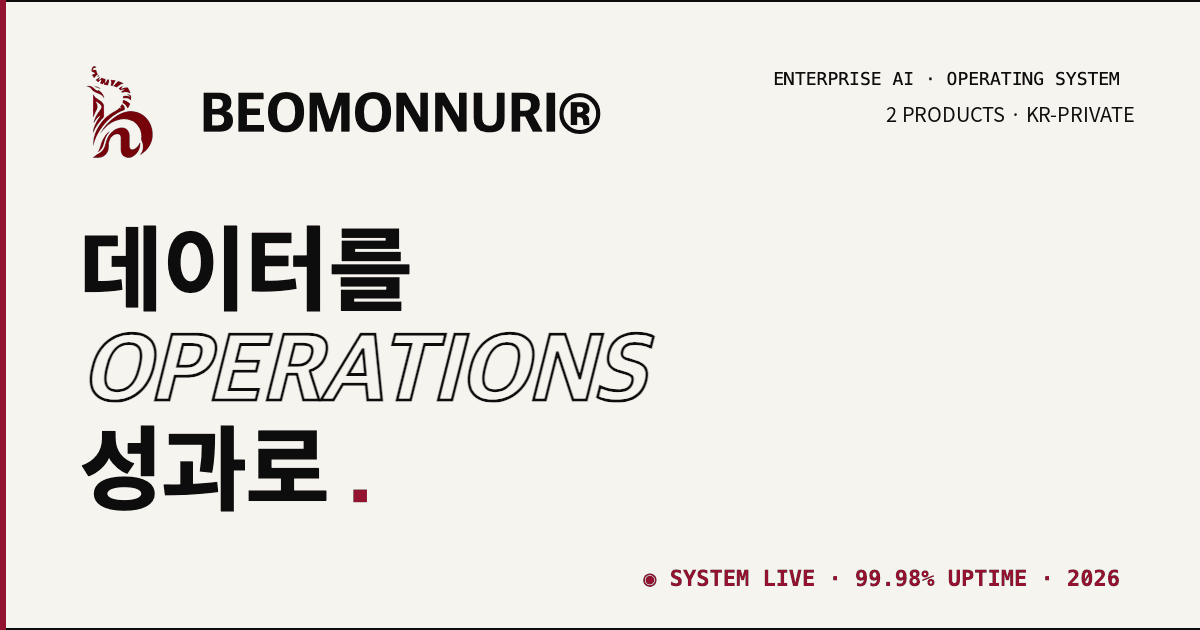
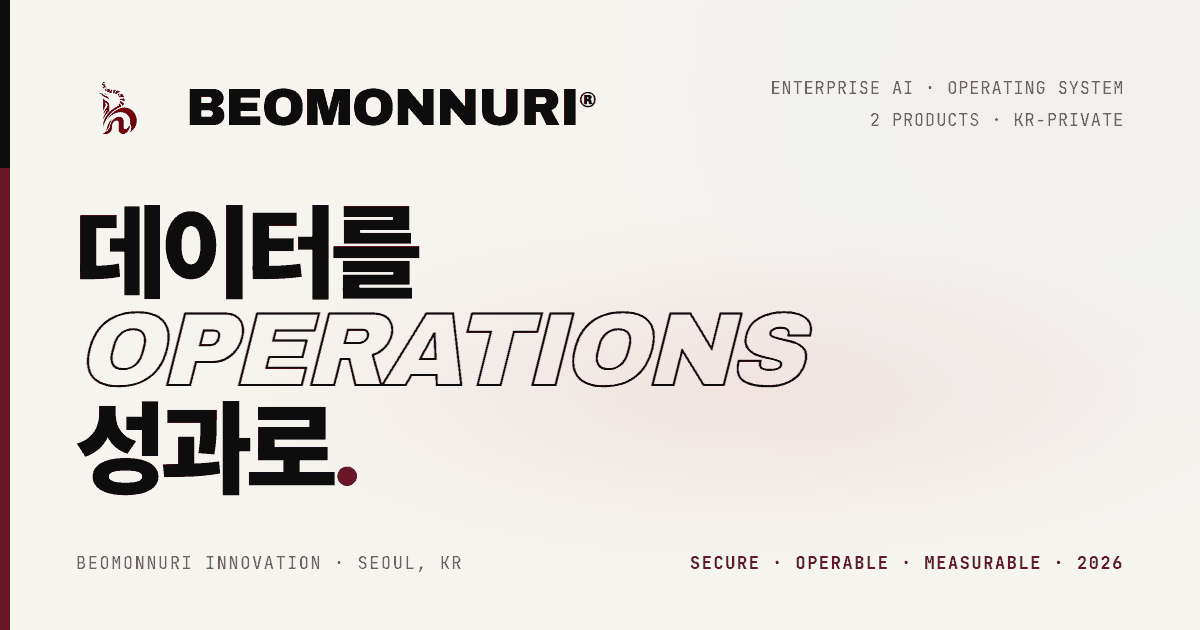
fix(homepage2): 근거 없는 수치 주장 제거 + 단정 표현 완화
■ 공유 카드에서 가동률 수치 제거 (assets/og-image.png)
기존 이미지에 "◉ SYSTEM LIVE · 99.98% UPTIME · 2026" 이 그려져 있었다.
링크를 공유하는 모든 곳(카카오톡·슬랙·페이스북 등)에 노출되는데,
가동률을 측정·공개한 근거가 없어 표시광고법상 실증 문제가 될 수 있고
고객이 SLA 로 오해할 소지가 있었다.

대체 문구는 why.html 에 이미 명시된 설계 원칙
"SECURE · OPERABLE · MEASURABLE · 2026" 으로 바꿨다.
수치 약속이 아니라 접근 방식을 나타내므로 실증 부담이 없다.
비어 있던 좌하단에는 "BEOMONNURI INNOVATION · SEOUL, KR" 을 넣었다.

이미지는 사이트와 동일한 폰트(Archivo Black / Pretendard Variable /
JetBrains Mono)로 브라우저에서 렌더링해 기존 디자인을 유지했다.
1200x630 · 팔레트 48색 · 56.7KB (얇은 OPERATIONS 아웃라인 열화 없음 확인).
템플릿은 .audit/og-template.html 로 남겨 재생성이 가능하다.

■ 공유 플랫폼 이미지 캐시 갱신
카카오·페이스북 등은 og:image 를 URL 단위로 캐싱하므로 파일만 교체하면
낡은 카드가 계속 노출된다. og:image / og:image:secure_url / twitter:image
32개 참조에 ?v=20260828 을 붙여 재수집을 유도했다.
쿼리 없는 원래 URL 도 그대로 동작하므로 기존 공유 링크는 깨지지 않는다.

■ SLA 표기 제거 (products-agent.html)
엔터프라이즈 플랜의 "연동 시스템: 무제한 + SLA" 에서 SLA 를 뺐다.
SLA 는 가동률·대응시간을 계약으로 보장하고 미달 시 배상·감액 의무가
생기는 약속인데, 사이트 어디에도 보장 수준이 명시돼 있지 않았다.
"무제한 · 우선 지원" 으로 바꿔 티어 차별점은 유지하면서 약속 수준을
실제 제공 가능한 범위로 낮췄다.

■ 단정적 보안 표현 완화 (why.html)
"업무 시스템을 안전한 채널로 연결합니다"
  → "암호화된 채널로 연결합니다"
"안전한"은 검증 불가한 단정이므로 실제 수단(암호화)으로 대체했다.

■ 검증
기능 28건 통과 / 폼 4개 시나리오 통과 / 오버플로우 160조합 0건
전 9페이지 og 메타 완비(width/height/type/alt) 재확인

diff --git a/homepage2/products-agent.html b/homepage2/products-agent.html
@@ -14,8 +14,8 @@
 <meta property="og:site_name" content="BEOMONNURI INNOVATION">
 <meta property="og:title" content="범온 에이전트 AI — 업무 자동화 · HITL">
 <meta property="og:description" content="반복 업무를 단계별로 실행하고 사람의 검토·승인을 연결하는 엔터프라이즈 워크플로 AI.">
-<meta property="og:image" content="https://www.beomonnuri.com/assets/og-image.png">
-<meta property="og:image:secure_url" content="https://www.beomonnuri.com/assets/og-image.png">
+<meta property="og:image" content="https://www.beomonnuri.com/assets/og-image.png?v=20260828">
+<meta property="og:image:secure_url" content="https://www.beomonnuri.com/assets/og-image.png?v=20260828">
 <meta property="og:image:type" content="image/png">
 <meta property="og:image:width" content="1200">
 <meta property="og:image:height" content="630">
@@ -24,7 +24,7 @@
 <meta name="twitter:card" content="summary_large_image">
 <meta name="twitter:title" content="범온 에이전트 AI — 업무 자동화 · HITL">
 <meta name="twitter:description" content="반복 업무 자동화와 사람 검토 흐름(HITL)을 연결하는 업무 실행형 AI.">
-<meta name="twitter:image" content="https://www.beomonnuri.com/assets/og-image.png">
+<meta name="twitter:image" content="https://www.beomonnuri.com/assets/og-image.png?v=20260828">
 <meta name="twitter:image:alt" content="범온누리 이노베이션 로고와 슬로건 '데이터를 OPERATIONS 성과로'">
 <link rel="image_src" href="https://www.beomonnuri.com/assets/logo-square.png">
 <link rel="shortcut icon" href="favicon.ico">
@@ -218,7 +218,7 @@
         <tbody>
           <tr><td class="pname">워크플로 수</td><td>3개까지</td><td>10개까지</td><td>무제한</td></tr>
           <tr><td class="pname">HITL 검토·승인</td><td>기본 제공</td><td>기본 제공</td><td>커스텀 승인 체계</td></tr>
-          <tr><td class="pname">연동 시스템</td><td>1개 포함</td><td>3개 포함</td><td>무제한 + SLA</td></tr>
+          <tr><td class="pname">연동 시스템</td><td>1개 포함</td><td>3개 포함</td><td>무제한 · 우선 지원</td></tr>
           <tr><td class="pname">월 이용료</td><td>120만원~</td><td>280만원~</td><td>협의 (견적 산정)</td></tr>
           <tr><td class="pname">초기 구축비</td><td>별도 (1회)</td><td>별도 (1회)</td><td>연동 범위 포함 견적</td></tr>
         </tbody>

diff --git a/homepage2/index.html b/homepage2/index.html
@@ -19,8 +19,8 @@
 <meta property="og:site_name" content="BEOMONNURI INNOVATION">
 <meta property="og:title" content="범온누리 이노베이션 — 보안 환경의 엔터프라이즈 AI">
 <meta property="og:description" content="처리시간·정확도·자동화율·운영 안정성 기준으로 2개의 AI 제품과 외주·MVP 제작을 설계하는 보안 환경의 엔터프라이즈 AI.">
-<meta property="og:image" content="https://www.beomonnuri.com/assets/og-image.png">
-<meta property="og:image:secure_url" content="https://www.beomonnuri.com/assets/og-image.png">
+<meta property="og:image" content="https://www.beomonnuri.com/assets/og-image.png?v=20260828">
+<meta property="og:image:secure_url" content="https://www.beomonnuri.com/assets/og-image.png?v=20260828">
 <meta property="og:image:type" content="image/png">
 <meta property="og:image:width" content="1200">
 <meta property="og:image:height" content="630">
@@ -30,7 +30,7 @@
 <meta name="twitter:card" content="summary_large_image">
 <meta name="twitter:title" content="범온누리 이노베이션 — 보안 환경의 엔터프라이즈 AI">
 <meta name="twitter:description" content="AI 제품 성능 기준(처리시간·정확도·자동화율·운영 안정성)으로 도입 전략을 설계하세요.">
-<meta name="twitter:image" content="https://www.beomonnuri.com/assets/og-image.png">
+<meta name="twitter:image" content="https://www.beomonnuri.com/assets/og-image.png?v=20260828">
 <meta name="twitter:image:alt" content="범온누리 이노베이션 로고와 슬로건 '데이터를 OPERATIONS 성과로'">
 
 <link rel="image_src" href="https://www.beomonnuri.com/assets/logo-square.png">
@@ -84,7 +84,7 @@
       },
       "image": {
         "@type": "ImageObject",
-        "url": "https://www.beomonnuri.com/assets/og-image.png",
+        "url": "https://www.beomonnuri.com/assets/og-image.png?v=20260828",
         "width": 1200,
         "height": 630
       },
@@ -127,7 +127,7 @@
       "inLanguage": "ko-KR",
       "primaryImageOfPage": {
         "@type": "ImageObject",
-        "url": "https://www.beomonnuri.com/assets/og-image.png",
+        "url": "https://www.beomonnuri.com/assets/og-image.png?v=20260828",
         "width": 1200,
         "height": 630
       }

diff --git a/homepage2/why.html b/homepage2/why.html
@@ -14,8 +14,8 @@
 <meta property="og:site_name" content="BEOMONNURI INNOVATION">
 <meta property="og:title" content="Why BEOMONNURI — 운영 시스템으로서의 AI">
 <meta property="og:description" content="SECURE · OPERABLE · MEASURABLE 원칙 기반 접근.">
-<meta property="og:image" content="https://www.beomonnuri.com/assets/og-image.png">
-<meta property="og:image:secure_url" content="https://www.beomonnuri.com/assets/og-image.png">
+<meta property="og:image" content="https://www.beomonnuri.com/assets/og-image.png?v=20260828">
+<meta property="og:image:secure_url" content="https://www.beomonnuri.com/assets/og-image.png?v=20260828">
 <meta property="og:image:type" content="image/png">
 <meta property="og:image:width" content="1200">
 <meta property="og:image:height" content="630">
@@ -24,7 +24,7 @@
 <meta name="twitter:card" content="summary_large_image">
 <meta name="twitter:title" content="Why BEOMONNURI — 운영 시스템으로서의 AI">
 <meta name="twitter:description" content="SECURE · OPERABLE · MEASURABLE 원칙으로 AI 도입을 운영 시스템으로 설계합니다.">
-<meta name="twitter:image" content="https://www.beomonnuri.com/assets/og-image.png">
+<meta name="twitter:image" content="https://www.beomonnuri.com/assets/og-image.png?v=20260828">
 <meta name="twitter:image:alt" content="범온누리 이노베이션 로고와 슬로건 '데이터를 OPERATIONS 성과로'">
 <link rel="image_src" href="https://www.beomonnuri.com/assets/logo-square.png">
 <link rel="shortcut icon" href="favicon.ico">
@@ -245,7 +245,7 @@
         <div class="sn">/ 04</div>
         <div class="sb">
           <h3>내부 시스템 연동</h3>
-          <p>내부 문서 저장소와 업무 시스템을 안전한 채널로 연결합니다.</p>
+          <p>내부 문서 저장소와 업무 시스템을 암호화된 채널로 연결합니다.</p>
         </div>
       </div>
       <div class="sec-item-v4">

diff --git a/homepage2/404.html b/homepage2/404.html
@@ -15,8 +15,8 @@
 <meta property="og:site_name" content="BEOMONNURI INNOVATION">
 <meta property="og:title" content="페이지를 찾을 수 없습니다 (404) — 범온누리 이노베이션">
 <meta property="og:description" content="요청한 페이지를 찾을 수 없습니다. 범온누리 이노베이션의 제품·서비스 페이지에서 원하는 정보를 찾아보세요.">
-<meta property="og:image" content="https://www.beomonnuri.com/assets/og-image.png">
-<meta property="og:image:secure_url" content="https://www.beomonnuri.com/assets/og-image.png">
+<meta property="og:image" content="https://www.beomonnuri.com/assets/og-image.png?v=20260828">
+<meta property="og:image:secure_url" content="https://www.beomonnuri.com/assets/og-image.png?v=20260828">
 <meta property="og:image:type" content="image/png">
 <meta property="og:image:width" content="1200">
 <meta property="og:image:height" content="630">
@@ -25,7 +25,7 @@
 <meta name="twitter:card" content="summary_large_image">
 <meta name="twitter:title" content="페이지를 찾을 수 없습니다 (404) — 범온누리 이노베이션">
 <meta name="twitter:description" content="요청한 페이지를 찾을 수 없습니다. 제품·서비스 페이지에서 원하는 정보를 찾아보세요.">
-<meta name="twitter:image" content="https://www.beomonnuri.com/assets/og-image.png">
+<meta name="twitter:image" content="https://www.beomonnuri.com/assets/og-image.png?v=20260828">
 <meta name="twitter:image:alt" content="범온누리 이노베이션 로고와 슬로건 '데이터를 OPERATIONS 성과로'">
 <link rel="image_src" href="https://www.beomonnuri.com/assets/logo-square.png">
 

diff --git a/homepage2/privacy.html b/homepage2/privacy.html
@@ -13,8 +13,8 @@
 <meta property="og:site_name" content="BEOMONNURI INNOVATION">
 <meta property="og:title" content="개인정보처리방침 — 범온누리 이노베이션">
 <meta property="og:description" content="(주)범온누리 이노베이션 개인정보처리방침. 수집 항목, 이용 목적, 보유 기간, 이용자 권리 안내.">
-<meta property="og:image" content="https://www.beomonnuri.com/assets/og-image.png">
-<meta property="og:image:secure_url" content="https://www.beomonnuri.com/assets/og-image.png">
+<meta property="og:image" content="https://www.beomonnuri.com/assets/og-image.png?v=20260828">
+<meta property="og:image:secure_url" content="https://www.beomonnuri.com/assets/og-image.png?v=20260828">
 <meta property="og:image:type" content="image/png">
 <meta property="og:image:width" content="1200">
 <meta property="og:image:height" content="630">
@@ -23,7 +23,7 @@
 <meta name="twitter:card" content="summary_large_image">
 <meta name="twitter:title" content="개인정보처리방침 — 범온누리 이노베이션">
 <meta name="twitter:description" content="(주)범온누리 이노베이션 개인정보처리방침. 수집 항목, 이용 목적, 보유 기간, 이용자 권리 안내.">
-<meta name="twitter:image" content="https://www.beomonnuri.com/assets/og-image.png">
+<meta name="twitter:image" content="https://www.beomonnuri.com/assets/og-image.png?v=20260828">
 <meta name="twitter:image:alt" content="범온누리 이노베이션 로고와 슬로건 '데이터를 OPERATIONS 성과로'">
 <link rel="image_src" href="https://www.beomonnuri.com/assets/logo-square.png">
 <link rel="shortcut icon" href="favicon.ico">

diff --git a/homepage2/services-outsourcing.html b/homepage2/services-outsourcing.html
@@ -16,8 +16,8 @@
 <meta property="og:site_name" content="BEOMONNURI INNOVATION">
 <meta property="og:title" content="외주·MVP 제작 — 범온누리 이노베이션">
 <meta property="og:description" content="홈페이지/웹사이트 제작, 광고 이미지 제작, MVP 제작을 AI 제품 도입과 함께 통합 실행합니다.">
-<meta property="og:image" content="https://www.beomonnuri.com/assets/og-image.png">
-<meta property="og:image:secure_url" content="https://www.beomonnuri.com/assets/og-image.png">
+<meta property="og:image" content="https://www.beomonnuri.com/assets/og-image.png?v=20260828">
+<meta property="og:image:secure_url" content="https://www.beomonnuri.com/assets/og-image.png?v=20260828">
 <meta property="og:image:type" content="image/png">
 <meta property="og:image:width" content="1200">
 <meta property="og:image:height" content="630">
@@ -26,7 +26,7 @@
 <meta name="twitter:card" content="summary_large_image">
 <meta name="twitter:title" content="외주·MVP 제작 — 범온누리 이노베이션">
 <meta name="twitter:description" content="홈페이지/웹사이트 제작, 광고 이미지 제작, MVP 제작(스타트업·예비창업자)을 하나의 로드맵으로 실행합니다.">
-<meta name="twitter:image" content="https://www.beomonnuri.com/assets/og-image.png">
+<meta name="twitter:image" content="https://www.beomonnuri.com/assets/og-image.png?v=20260828">
 <meta name="twitter:image:alt" content="범온누리 이노베이션 로고와 슬로건 '데이터를 OPERATIONS 성과로'">
 <link rel="image_src" href="https://www.beomonnuri.com/assets/logo-square.png">
 <link rel="shortcut icon" href="favicon.ico">

diff --git a/homepage2/products.html b/homepage2/products.html
@@ -15,8 +15,8 @@
 <meta property="og:site_name" content="BEOMONNURI INNOVATION">
 <meta property="og:title" content="범온누리 이노베이션 Products — 2개의 AI 제품">
 <meta property="og:description" content="처리시간·정확도·자동화율·운영 안정성 기준으로 2개 AI 제품을 비교하세요.">
-<meta property="og:image" content="https://www.beomonnuri.com/assets/og-image.png">
-<meta property="og:image:secure_url" content="https://www.beomonnuri.com/assets/og-image.png">
+<meta property="og:image" content="https://www.beomonnuri.com/assets/og-image.png?v=20260828">
+<meta property="og:image:secure_url" content="https://www.beomonnuri.com/assets/og-image.png?v=20260828">
 <meta property="og:image:type" content="image/png">
 <meta property="og:image:width" content="1200">
 <meta property="og:image:height" content="630">
@@ -25,7 +25,7 @@
 <meta name="twitter:card" content="summary_large_image">
 <meta name="twitter:title" content="범온누리 이노베이션 Products — 2개의 AI 제품">
 <meta name="twitter:description" content="처리시간·정확도·자동화율·운영 안정성 기준으로 2개 AI 제품을 비교하세요.">
-<meta name="twitter:image" content="https://www.beomonnuri.com/assets/og-image.png">
+<meta name="twitter:image" content="https://www.beomonnuri.com/assets/og-image.png?v=20260828">
 <meta name="twitter:image:alt" content="범온누리 이노베이션 로고와 슬로건 '데이터를 OPERATIONS 성과로'">
 <link rel="image_src" href="https://www.beomonnuri.com/assets/logo-square.png">
 <link rel="shortcut icon" href="favicon.ico">

diff --git a/homepage2/products-superchart.html b/homepage2/products-superchart.html
@@ -17,8 +17,8 @@
 <meta property="og:site_name" content="BEOMONNURI INNOVATION">
 <meta property="og:title" content="범온 슈퍼차트 AI — 금융 리서치 AI">
 <meta property="og:description" content="신호 정확도·리스크 감지 속도·리포트 처리시간을 기준으로 설계하는 금융 리서치 AI.">
-<meta property="og:image" content="https://www.beomonnuri.com/assets/og-image.png">
-<meta property="og:image:secure_url" content="https://www.beomonnuri.com/assets/og-image.png">
+<meta property="og:image" content="https://www.beomonnuri.com/assets/og-image.png?v=20260828">
+<meta property="og:image:secure_url" content="https://www.beomonnuri.com/assets/og-image.png?v=20260828">
 <meta property="og:image:type" content="image/png">
 <meta property="og:image:width" content="1200">
 <meta property="og:image:height" content="630">
@@ -27,7 +27,7 @@
 <meta name="twitter:card" content="summary_large_image">
 <meta name="twitter:title" content="범온 슈퍼차트 AI — 금융 리서치 AI">
 <meta name="twitter:description" content="신호 정확도·리스크 감지 속도·리포트 처리시간을 기준으로 설계하는 금융 리서치 AI.">
-<meta name="twitter:image" content="https://www.beomonnuri.com/assets/og-image.png">
+<meta name="twitter:image" content="https://www.beomonnuri.com/assets/og-image.png?v=20260828">
 <meta name="twitter:image:alt" content="범온누리 이노베이션 로고와 슬로건 '데이터를 OPERATIONS 성과로'">
 <link rel="image_src" href="https://www.beomonnuri.com/assets/logo-square.png">
 <link rel="shortcut icon" href="favicon.ico">

diff --git a/homepage2/products-private.html b/homepage2/products-private.html
@@ -14,8 +14,8 @@
 <meta property="og:site_name" content="BEOMONNURI INNOVATION">
 <meta property="og:title" content="범온 프라이빗 AI — 보안 환경의 사내 AI">
 <meta property="og:description" content="사내 문서·규정·매뉴얼을 온프레미스에서 안전하게 검색하는 엔터프라이즈 AI.">
-<meta property="og:image" content="https://www.beomonnuri.com/assets/og-image.png">
-<meta property="og:image:secure_url" content="https://www.beomonnuri.com/assets/og-image.png">
+<meta property="og:image" content="https://www.beomonnuri.com/assets/og-image.png?v=20260828">
+<meta property="og:image:secure_url" content="https://www.beomonnuri.com/assets/og-image.png?v=20260828">
 <meta property="og:image:type" content="image/png">
 <meta property="og:image:width" content="1200">
 <meta property="og:image:height" content="630">
@@ -24,7 +24,7 @@
 <meta name="twitter:card" content="summary_large_image">
 <meta name="twitter:title" content="범온 프라이빗 AI — 보안 환경의 사내 AI">
 <meta name="twitter:description" content="사내 문서·규정·매뉴얼을 보안 환경에서 검색·활용하는 엔터프라이즈 AI.">
-<meta name="twitter:image" content="https://www.beomonnuri.com/assets/og-image.png">
+<meta name="twitter:image" content="https://www.beomonnuri.com/assets/og-image.png?v=20260828">
 <meta name="twitter:image:alt" content="범온누리 이노베이션 로고와 슬로건 '데이터를 OPERATIONS 성과로'">
 <link rel="image_src" href="https://www.beomonnuri.com/assets/logo-square.png">
 <link rel="shortcut icon" href="favicon.ico">

diff --git a/homepage2/contact.html b/homepage2/contact.html
@@ -14,8 +14,8 @@
 <meta property="og:site_name" content="BEOMONNURI INNOVATION">
 <meta property="og:title" content="BEOMONNURI Contact — 도입 진단 신청">
 <meta property="og:description" content="간단한 정보를 남겨주시면 확인 후 순차 회신드립니다.">
-<meta property="og:image" content="https://www.beomonnuri.com/assets/og-image.png">
-<meta property="og:image:secure_url" content="https://www.beomonnuri.com/assets/og-image.png">
+<meta property="og:image" content="https://www.beomonnuri.com/assets/og-image.png?v=20260828">
+<meta property="og:image:secure_url" content="https://www.beomonnuri.com/assets/og-image.png?v=20260828">
 <meta property="og:image:type" content="image/png">
 <meta property="og:image:width" content="1200">
 <meta property="og:image:height" content="630">
@@ -24,7 +24,7 @@
 <meta name="twitter:card" content="summary_large_image">
 <meta name="twitter:title" content="BEOMONNURI Contact — 도입 진단 신청">
 <meta name="twitter:description" content="도입 목적, 데이터, 보안 요건을 남겨주시면 적용 범위를 검토해 회신드립니다.">
-<meta name="twitter:image" content="https://www.beomonnuri.com/assets/og-image.png">
+<meta name="twitter:image" content="https://www.beomonnuri.com/assets/og-image.png?v=20260828">
 <meta name="twitter:image:alt" content="범온누리 이노베이션 로고와 슬로건 '데이터를 OPERATIONS 성과로'">
 <link rel="image_src" href="https://www.beomonnuri.com/assets/logo-square.png">
 <link rel="shortcut icon" href="favicon.ico">
